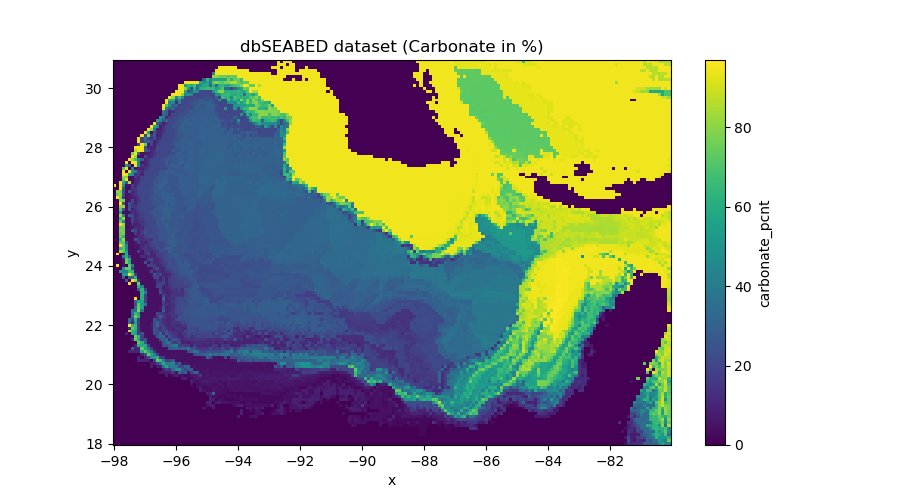
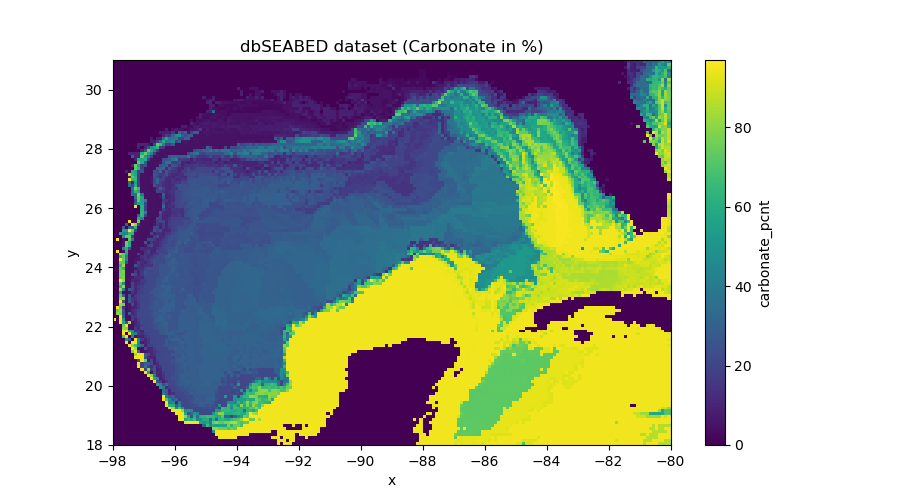
update docs with correct bbox and plot

diff --git a/README.md b/README.md
@@ -58,10 +58,10 @@ from bmi_dbseabed import DbSeabed
 dbseabed = DbSeabed()
 data = dbseabed.get_data(
     var_name="carbonate",
-    west=-98.0,
-    south=18.0,
-    east=-80.1,
-    north=30.9,
+    west=-97.95,
+    south=18.05,
+    east=-80.05,
+    north=30.95,
     output="download.tif",
 )
 

diff --git a/docs/source/index.md b/docs/source/index.md
@@ -64,10 +64,10 @@ from bmi_dbseabed import DbSeabed
 dbseabed = DbSeabed()
 data = dbseabed.get_data(
     var_name="carbonate",
-    west=-98.0,
-    south=18,
-    east=-80.1,
-    north=30.9,
+    west=-97.95,
+    south=18.05,
+    east=-80.05,
+    north=30.95,
     output="download.tif",
 )
 
